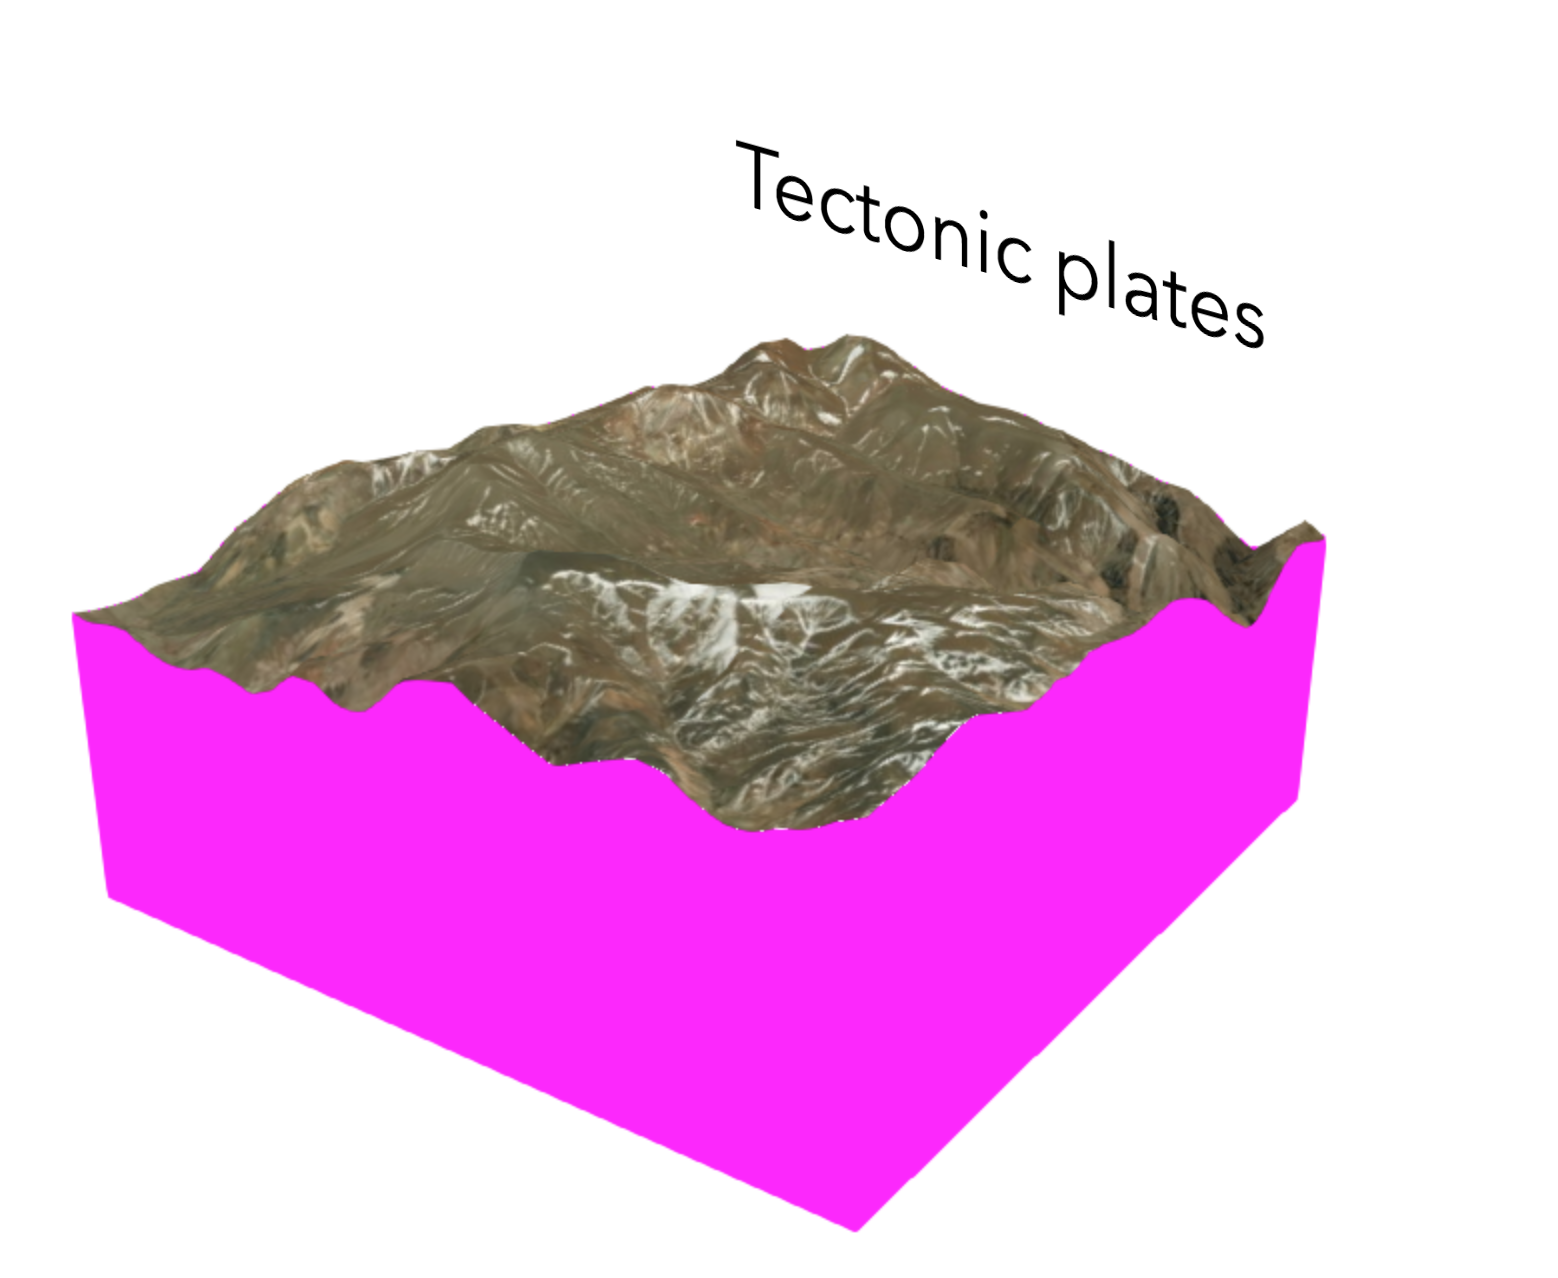
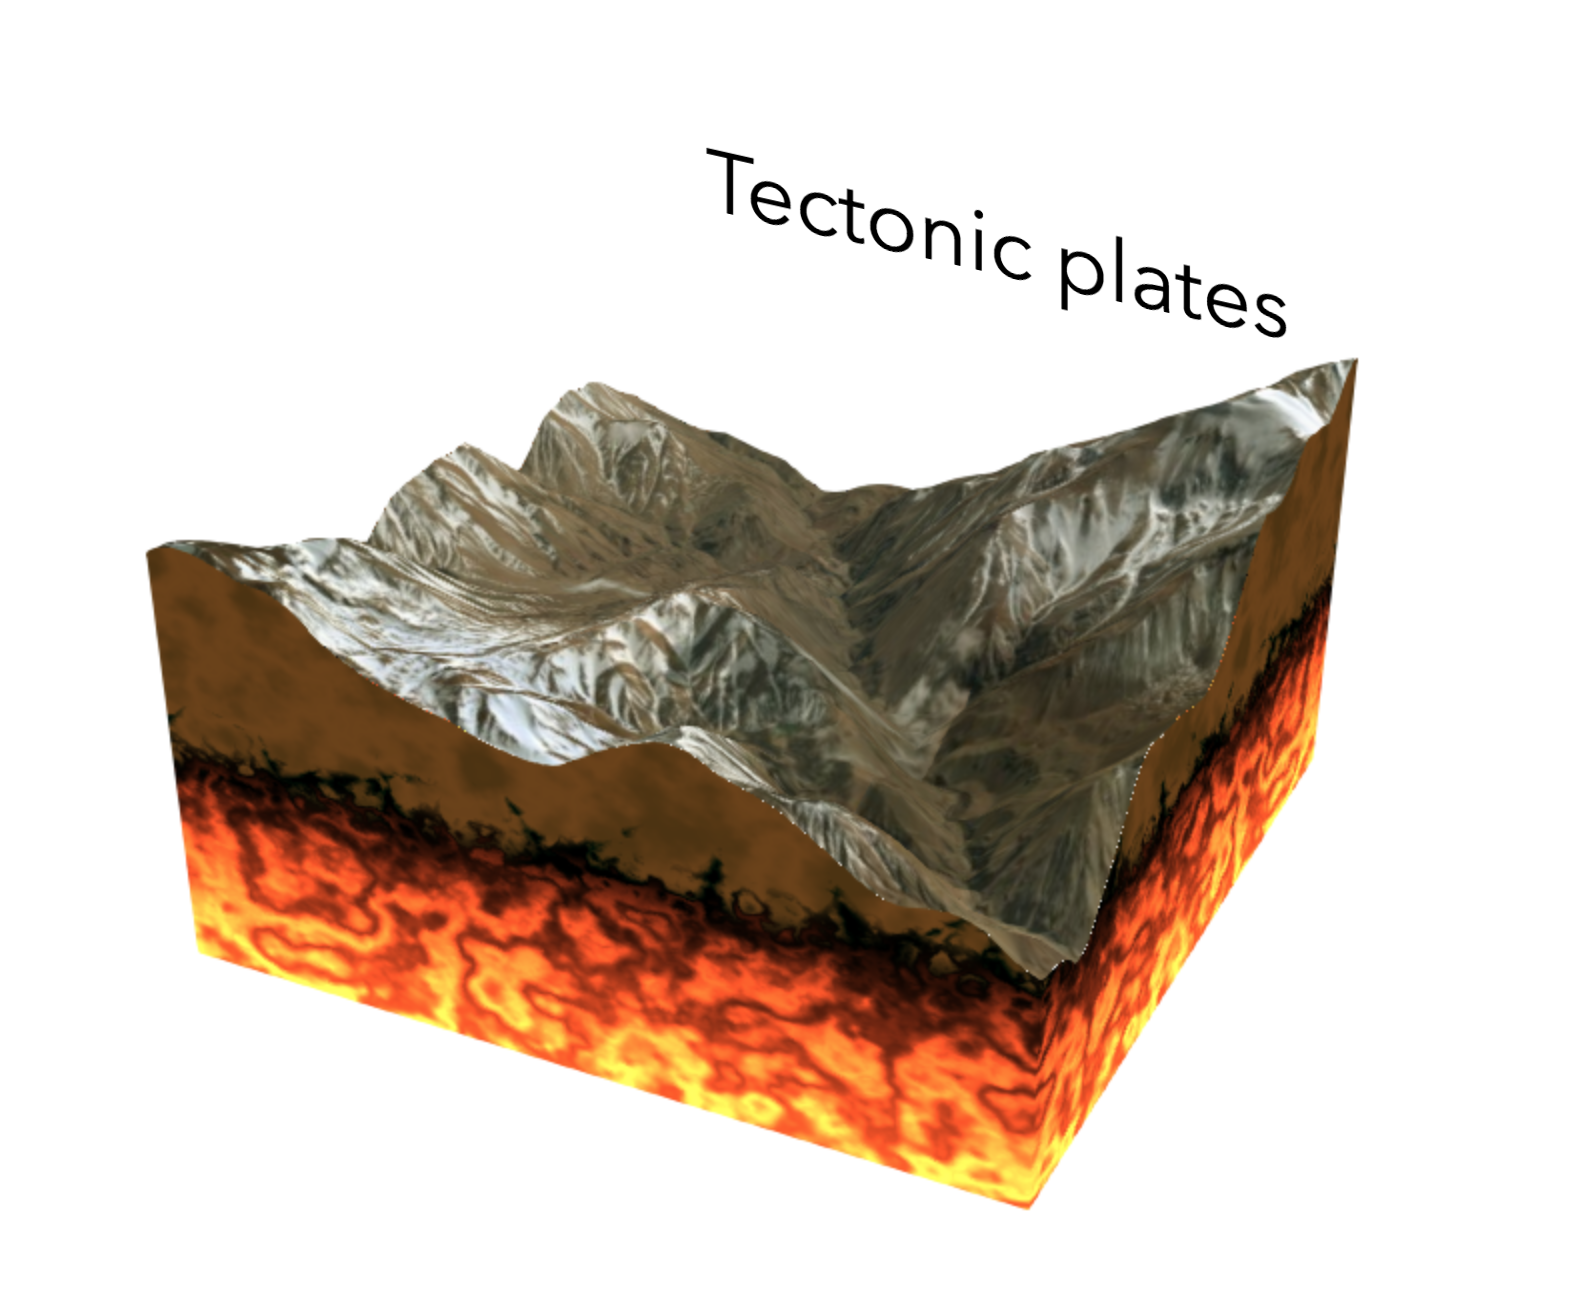
Update with lava rendering

diff --git a/demos/tectonic/js/LavaRenderer.ts b/demos/tectonic/js/LavaRenderer.ts
@@ -23,9 +23,20 @@ export class LavaRenderer extends declared(Accessor) {
   private numVertices = 0;
   private viewMatrix = mat4.create();
   private vertexPositionAttributeLocation: number;
+  private uvAttributeLocation: number;
+  private time = 0;
 
   @property({ constructOnly: true })
   readonly view: esri.SceneView;
+
+  @property({ value: true })
+  set playing(value: boolean) {
+    this._set("playing", value);
+
+    if (value) {
+      externalRenderers.requestRender(this.view);
+    }
+  }
 
   constructor(obj: ConstructProperties) {
     super();
@@ -66,18 +77,30 @@ export class LavaRenderer extends declared(Accessor) {
     const viewMatrix = mat4.translate(this.viewMatrix, camera.viewMatrix, this.origin);
     gl.uniformMatrix4fv(uniformLocations.uViewMatrix, false, viewMatrix);
     gl.uniformMatrix4fv(uniformLocations.uProjectionMatrix, false, camera.projectionMatrix);
+    gl.uniform1f(uniformLocations.uTime, this.time);
+    gl.uniform2f(uniformLocations.uResolution, 800, 800);
+
+    this.time += 0.01;
 
     // Bind vertex buffer object and setup attribute pointers
     gl.bindBuffer(gl.ARRAY_BUFFER, this.vbo);
 
     // Vertex position
     gl.enableVertexAttribArray(this.vertexPositionAttributeLocation);
-    gl.vertexAttribPointer(this.vertexPositionAttributeLocation, 3, gl.FLOAT, false, 0, 0);
+    gl.vertexAttribPointer(this.vertexPositionAttributeLocation, 3, gl.FLOAT, false, 20, 0);
+
+    // UV
+    gl.enableVertexAttribArray(this.uvAttributeLocation);
+    gl.vertexAttribPointer(this.uvAttributeLocation, 2, gl.FLOAT, false, 20, 12);
 
     gl.drawArrays(gl.TRIANGLES, 0, this.numVertices);
 
     // Make sure to reset the WebGL state when finishing the render
     context.resetWebGLState();
+
+    if (this.playing) {
+      externalRenderers.requestRender(this.view);
+    }
   }
 
   private initializeVertexBufferObject(context: esri.RenderContext) {
@@ -95,11 +118,16 @@ export class LavaRenderer extends declared(Accessor) {
         precision highp float;
 
         attribute vec3 aVertexPosition;
+        attribute vec2 aUV;
 
         uniform mat4 uViewMatrix;
         uniform mat4 uProjectionMatrix;
+        uniform vec2 uResolution;
+
+        varying vec2 vUV;
 
         void main() {
+          vUV = aUV * uResolution - vec2(0, 150);
           gl_Position = uProjectionMatrix * uViewMatrix * vec4(aVertexPosition, 1);
         }
       `,
@@ -108,16 +136,140 @@ export class LavaRenderer extends declared(Accessor) {
       `
         precision highp float;
 
+        uniform float uTime;
+        uniform vec2 uResolution;
+
+        varying vec2 vUV;
+
+        float hash(float n) {
+          return fract(sin(n) * 43758.5453);
+        }
+
+        float noise(vec2 uv) {
+          vec3 x = vec3(uv, 0);
+
+          vec3 p = floor(x);
+          vec3 f = fract(x);
+
+          f = f * f * (3.0 - 2.0 * f);
+          float n = p.x + p.y * 57.0 + 113.0 * p.z;
+
+          return mix(mix(mix(hash(n+0.0), hash(n+1.0),f.x),
+                         mix(hash(n+57.0), hash(n+58.0),f.x),f.y),
+                      mix(mix( hash(n+113.0), hash(n+114.0),f.x),
+                          mix( hash(n+170.0), hash(n+171.0),f.x),f.y),f.z);
+        }
+
+        mat2 m = mat2(0.8, 0.6, -0.6, 0.8);
+
+        float fbm(vec2 p) {
+            float f = 0.0;
+
+            f += 0.5000*noise( p ); p*=m*2.02;
+            f += 0.2500*noise( p ); p*=m*2.03;
+            f += 0.1250*noise( p ); p*=m*2.01;
+            f += 0.0625*noise( p );
+
+            f /= 0.9375;
+            return f;
+        }
+
+        vec3 voronoi( in vec2 x ) {
+            ivec2 p = ivec2(floor( x ));
+            vec2 f = fract(x);
+
+            ivec2 mb = ivec2(0);
+            vec2 mr = vec2(0.0);
+            vec2 mg = vec2(0.0);
+
+            float md = 8.0;
+            for(int j=-1; j<=1; ++j)
+            for(int i=-1; i<=1; ++i)
+            {
+                ivec2 b = ivec2( i, j );
+                vec2  r = vec2( b ) + noise( vec2(p + b) ) - f;
+                vec2 g = vec2(float(i),float(j));
+                vec2 o = vec2(noise( vec2(p) + g ));
+                float d = length(r);
+
+                if( d<md )
+                {
+                    md = d;
+                    mr = r;
+                    mg = g;
+                }
+            }
+
+            md = 8.0;
+            for(int j=-2; j<=2; ++j) {
+              for(int i=-2; i<=2; ++i) {
+                  ivec2 b = ivec2( i, j );
+                  vec2 r = vec2( b ) + noise( vec2(p + b) ) - f;
+
+
+                  if( length(r-mr)>0.00001 )
+                  md = min( md, dot( 0.5*(mr+r), normalize(r-mr) ) );
+              }
+            }
+            return vec3( md, mr );
+        }
+
+        vec2 tr(vec2 p) {
+            p = -1.0+2.0*(p/uResolution.xy);
+            p.x *= uResolution.x/uResolution.y;
+            return p;
+        }
+
         void main() {
-          gl_FragColor = vec4(1, 0, 1, 1);
+          float map_radius = mod(600.0 - 250.0 ,600.0);
+          vec2 focus = vec2(0.0,map_radius);
+          float crack_radius = 50.0;
+
+          float radius = max(1e-20,map_radius);
+          vec2 fc = vUV + focus - uResolution / 2.0;
+          vec2 p = tr(fc);
+
+          vec3 col = 	vec3(0.0);
+
+          vec3 lava = vec3(0.0);
+          vec3 ground = vec3(0.5,0.3,0.1);
+          float vor = 0.0;
+          float len = length(fc.y) + cos(fbm(p*15.0)*15.0)*15.0;
+            float crack = smoothstep(radius-crack_radius,radius,len);
+
+          {
+            float val = 1.0 + cos(p.x*p.y + fbm(p*5.0) * 20.0 + uTime*2.0)/ 2.0;
+            lava = vec3(val*1.0, val*0.33, val*0.1);
+            lava = mix(lava*0.95,lava,len-radius);
+            lava *= exp(-1.8);
+          }
+
+          {
+            float val = 1.0 + sin(fbm(p * 7.5) * 8.0) / 2.0;
+            ground *= exp(-val*0.3);
+            vec3 sand = vec3(0.2,0.25,0.0);
+            ground = mix(ground,sand,val*0.1);
+          }
+
+          {
+            vor = voronoi(p*3.5).x*(1.0-crack)*0.75;
+            vor = 1.0-vor;
+            vor *= smoothstep(0.0,radius,len);
+          }
+
+          col = mix(ground,lava,crack);
+          col = mix(col,lava,smoothstep(radius-crack_radius,radius,vor*radius));
+
+          gl_FragColor = vec4(col, 1.0);
         }
       `,
 
       // Uniform names
-      ["uViewMatrix", "uProjectionMatrix"]
+      ["uViewMatrix", "uProjectionMatrix", "uTime", "uResolution"]
     );
 
     this.vertexPositionAttributeLocation = gl.getAttribLocation(this.program.program, "aVertexPosition");
+    this.uvAttributeLocation = gl.getAttribLocation(this.program.program, "aUV");
   }
 
   private update(context: esri.RenderContext) {
@@ -134,7 +286,7 @@ export class LavaRenderer extends declared(Accessor) {
     gl.bufferData(gl.ARRAY_BUFFER, bufferData.buffer, gl.STATIC_DRAW);
 
     vec3.copy(this.origin as any, bufferData.origin);
-    this.numVertices = bufferData.buffer.length / 3;
+    this.numVertices = bufferData.buffer.length / 5;
   }
 
   private requestUpdate() {
@@ -150,13 +302,16 @@ export class LavaRenderer extends declared(Accessor) {
     const nSides = 4;
     const nVerticesPerSegment = 6;
     const nSegments = nSamples - 1;
-    const sideStride = nSegments * nVerticesPerSegment * 3;
+    const sideStride = nSegments * (nVerticesPerSegment * 3 + nVerticesPerSegment * 2);
     const buffer = new Float64Array(sideStride * nSides);
 
     this.sampleAlong(c.xmin, c.xmax, c.ymin, c.ymin, c.spatialReference, nSamples, buffer, 0 * sideStride);
     this.sampleAlong(c.xmax, c.xmax, c.ymin, c.ymax, c.spatialReference, nSamples, buffer, 1 * sideStride);
     this.sampleAlong(c.xmax, c.xmin, c.ymax, c.ymax, c.spatialReference, nSamples, buffer, 2 * sideStride);
     this.sampleAlong(c.xmin, c.xmin, c.ymax, c.ymin, c.spatialReference, nSamples, buffer, 3 * sideStride);
+
+    this.flipUV(buffer, sideStride, 1);
+    this.flipUV(buffer, sideStride, 3);
 
     const origin = vec3.set(tmpOrigin as any, c.center.x, c.center.y, 0);
     const bufferInOrigin = new Float32Array(buffer.length);
@@ -166,7 +321,7 @@ export class LavaRenderer extends declared(Accessor) {
 
     // Expand a bit from the center so we don't have issues with z-fighting of the
     // terrain skirts
-    for (let i = 0; i < bufferInOrigin.length; i += 3) {
+    for (let i = 0; i < bufferInOrigin.length; i += 5) {
       bufferInOrigin[i + 0] *= eps;
       bufferInOrigin[i + 1] *= eps;
     }
@@ -176,11 +331,24 @@ export class LavaRenderer extends declared(Accessor) {
     return { buffer: bufferInOrigin, origin };
   }
 
+  private flipUV(buffer: Float64Array, stride: number, idx: number) {
+    const start = idx * stride;
+    const end = start + stride;
+
+    for (let i = start; i < end; i += 5) {
+      buffer[i + 3] = 1 - buffer[i + 3];
+    }
+  }
+
   private subtractOrigin(out: Float32Array, buffer: Float64Array, origin: ArrayLike<number>) {
-    for (let i = 0; i < buffer.length; i += 3) {
+    for (let i = 0; i < buffer.length; i += 5) {
       out[i + 0] = buffer[i + 0] - origin[0];
       out[i + 1] = buffer[i + 1] - origin[1];
       out[i + 2] = buffer[i + 2] - origin[2];
+
+      // UV
+      out[i + 3] = buffer[i + 3];
+      out[i + 4] = buffer[i + 4];
     }
   }
 
@@ -194,6 +362,8 @@ export class LavaRenderer extends declared(Accessor) {
     const point0 = new Point({ x: 0, y: 0, spatialReference });
     const point1 = new Point({ x: 0, y: 0, spatialReference });
 
+    const maxZ = 15000;
+
     for (let i = 0; i < nSegments; i++) {
       const pos0 = i / nSegments;
       const pos1 = (i + 1) / nSegments;
@@ -206,29 +376,50 @@ export class LavaRenderer extends declared(Accessor) {
       point1.y = ymin + dy * pos1;
       point1.z = sampler.elevationAt(point1) || 0;
 
-      buffer[offset++] = point0.x;
-      buffer[offset++] = point0.y;
-      buffer[offset++] = point0.z;
-
-      buffer[offset++] = point0.x;
-      buffer[offset++] = point0.y;
-      buffer[offset++] = 0;
-
-      buffer[offset++] = point1.x;
-      buffer[offset++] = point1.y;
-      buffer[offset++] = 0;
+      const zRel0 = 1.0 - point0.z / maxZ;
+      const zRel1 = 1.0 - point1.z / maxZ;
 
       buffer[offset++] = point0.x;
       buffer[offset++] = point0.y;
       buffer[offset++] = point0.z;
 
+      buffer[offset++] = pos0;
+      buffer[offset++] = zRel0;
+
+      buffer[offset++] = point0.x;
+      buffer[offset++] = point0.y;
+      buffer[offset++] = 0;
+
+      buffer[offset++] = pos0;
+      buffer[offset++] = 1;
+
       buffer[offset++] = point1.x;
       buffer[offset++] = point1.y;
       buffer[offset++] = 0;
+
+      buffer[offset++] = pos1;
+      buffer[offset++] = 1;
+
+      buffer[offset++] = point0.x;
+      buffer[offset++] = point0.y;
+      buffer[offset++] = point0.z;
+
+      buffer[offset++] = pos0;
+      buffer[offset++] = zRel0;
+
+      buffer[offset++] = point1.x;
+      buffer[offset++] = point1.y;
+      buffer[offset++] = 0;
+
+      buffer[offset++] = pos1;
+      buffer[offset++] = 1;
 
       buffer[offset++] = point1.x;
       buffer[offset++] = point1.y;
       buffer[offset++] = point1.z;
+
+      buffer[offset++] = pos1;
+      buffer[offset++] = zRel1;
     }
   }
 }

diff --git a/demos/tectonic/js/app.ts b/demos/tectonic/js/app.ts
@@ -26,7 +26,12 @@ export function run() {
   new IntegratedTitle({ view, viewport, element: titleElement, elevation: 14000 });
 
   lavaRenderer = new LavaRenderer({ view });
-  lavaRenderer;
+
+  view.on("key-down", ev => {
+    if (ev.key === " ") {
+      lavaRenderer.playing = !lavaRenderer.playing;
+    }
+  })
 
   window["view"] = view;
 }
